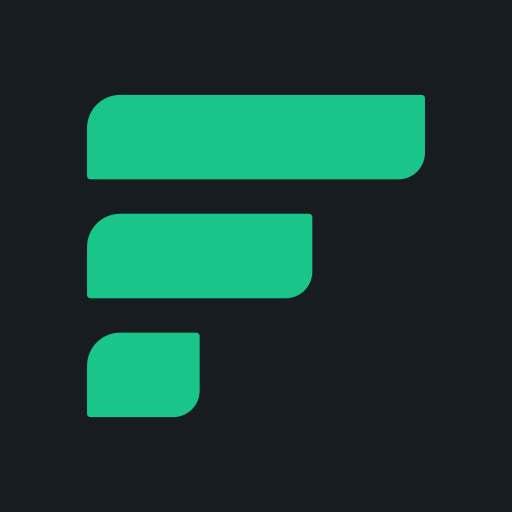
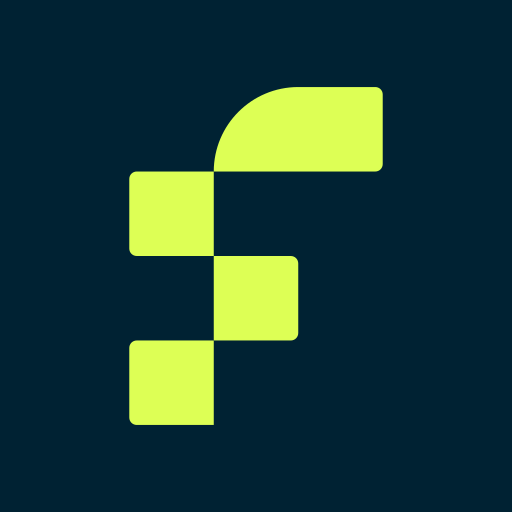
Explore energetic blue and yellow brand palette

Changed region(s): [[0.1562, 0.1562, 0.8438, 0.8438]]

diff --git a/src/app/ui-preview/preview.module.css b/src/app/ui-preview/preview.module.css
@@ -1666,6 +1666,59 @@
 .setupTasks > button > svg { flex:none; color:var(--preview-muted); }
 .setupTasks > button[data-complete="true"] strong { color:var(--preview-muted); text-decoration:line-through; }
 .setupTasks > button[data-complete="true"] > span { background:var(--preview-accent); color:var(--preview-on-accent); }
+
+/* High-energy palette experiment: deep ocean structure, warm cream canvas, restrained electric yellow. */
+.apple {
+  --preview-accent:#11425d;
+  --preview-highlight:#11425d;
+  --preview-brand:#ddff55;
+  --preview-energy:#ddff55;
+  --preview-soft:#c0d6ea;
+  --preview-on-soft:#002233;
+  --preview-ground:#f6f2e8;
+  --preview-text:#002233;
+  --preview-muted:#426276;
+  --preview-line:#d8d4cc;
+  --preview-field:#ebe8e0;
+  --preview-surface:#fffdf8;
+  --preview-on-accent:#f6f2e8;
+}
+.apple.dark {
+  --preview-accent:#c0d6ea;
+  --preview-highlight:#c0d6ea;
+  --preview-brand:#ddff55;
+  --preview-energy:#ddff55;
+  --preview-soft:#11425d;
+  --preview-on-soft:#f6f2e8;
+  --preview-ground:#002233;
+  --preview-text:#f6f2e8;
+  --preview-muted:#c5c0c9;
+  --preview-line:#31576c;
+  --preview-field:#173b50;
+  --preview-surface:#0c354b;
+  --preview-on-accent:#002233;
+  background:#002233;
+}
+.apple.middayTheme { background:#eee9df; }
+.apple .calendarHero .calendarSummary strong { font-weight:700; letter-spacing:-.005em; }
+.apple :is(.addFab,.homeUtilities button > span,.notification [data-slot="badge"]) { border-color:var(--preview-energy); background:var(--preview-energy); color:#002233; }
+.apple .unreadDot { background:var(--preview-energy); }
+.apple .addFab:hover { background:#d3f34f; }
+.apple .groupSymbol { background:#c5c0c9; color:#002233; }
+.apple .teachingCard { border-left-color:#11425d; }
+.apple.dark .teachingCard { border-left-color:#c0d6ea; }
+.apple .studioMarker:focus { outline-color:var(--preview-energy); }
+.apple .monthGrid > button.monthHasClass i { background:var(--preview-energy); }
+.apple .calendarHero .homeSummaryActions > button,
+.apple:not(.dark) .swipeCalendar .calendarHero .homeSummaryActions > button { background:#11425d!important; color:#f6f2e8!important; }
+.apple .calendarHero .homeSummaryActions > button:hover,
+.apple:not(.dark) .swipeCalendar .calendarHero .homeSummaryActions > button:hover { background:#002233!important; color:#f6f2e8!important; }
+.apple.dark .calendarHero .homeSummaryActions > button { background:#c0d6ea!important; color:#002233!important; }
+.apple.dark .calendarHero .homeSummaryActions > button:hover { background:#ddff55!important; color:#002233!important; }
+.apple .homeCardFooter { background:#11425d!important; color:#f6f2e8!important; }
+.apple .homeCardFooter:hover { background:#002233!important; color:#f6f2e8!important; }
+.apple.dark .homeCardFooter { background:#c0d6ea!important; color:#002233!important; }
+.apple.dark .homeCardFooter:hover { background:#ddff55!important; color:#002233!important; }
 .apple.dark .setupPanel { box-shadow:0 14px 36px rgb(0 0 0 / 22%); }
 @media(min-width:900px) {
   .setupPanel { margin-top:24px; padding:28px; border-radius:28px; }

diff --git a/src/components/ShareLivePreview.tsx b/src/components/ShareLivePreview.tsx
@@ -82,14 +82,15 @@ function BrandMark({ color }: { color: string }) {
     <svg
       className="shbrand-mark"
       aria-hidden="true"
-      viewBox="53.7961 53.0371 103.2039 98.4259"
+      viewBox="0 0 68.25 91"
       width="54"
       height="52"
       fill={color}
     >
-      <path d="M53.7961 63.1551C53.7961 57.5671 58.3261 53.0371 63.9142 53.0371H155.988C156.547 53.0371 157 53.4901 157 54.0489V70.7436C157 75.214 153.376 78.838 148.906 78.838H54.8079C54.2491 78.838 53.7961 78.385 53.7961 77.8262V63.1551Z" />
-      <path d="M53.7961 99.4675C53.7961 93.8795 58.3261 89.3495 63.9142 89.3495H121.587C122.146 89.3495 122.599 89.8025 122.599 90.3613V107.056C122.599 111.526 118.975 115.15 114.504 115.15H54.8079C54.2491 115.15 53.7961 114.697 53.7961 114.139V99.4675Z" />
-      <path d="M53.7961 135.78C53.7961 130.192 58.3261 125.662 63.9142 125.662H87.1856C87.7444 125.662 88.1974 126.115 88.1974 126.674V143.369C88.1974 147.839 84.5734 151.463 80.103 151.463H54.8079C54.2491 151.463 53.7961 151.01 53.7961 150.451V135.78Z" />
+      <path d="M0 70.25C0 69.1454 0.895431 68.25 2 68.25H22.75V91H2C0.89543 91 0 90.1046 0 89V70.25Z" />
+      <path d="M22.75 45.5H43.5C44.6046 45.5 45.5 46.3954 45.5 47.5V66.25C45.5 67.3546 44.6046 68.25 43.5 68.25H22.75V45.5Z" />
+      <path d="M0 24.75C0 23.6454 0.895431 22.75 2 22.75H22.75V45.5H2C0.89543 45.5 0 44.6046 0 43.5V24.75Z" />
+      <path d="M22.75 22.75C22.75 10.1855 32.9355 0 45.5 0H66.25C67.3546 0 68.25 0.895431 68.25 2V20.75C68.25 21.8546 67.3546 22.75 66.25 22.75H22.75Z" />
     </svg>
   );
 }
@@ -1150,7 +1151,7 @@ function ShareLivePreviewComponent({
                 <span style={{ fontSize: onPhoto ? 30 : 40, fontWeight: 600 }}>{url}</span>
               </span>
               <span style={{ display: "flex", alignItems: "center", gap: 16 }}>
-                <BrandMark color={onPhoto ? "#19C58B" : theme.lockupAccent ?? theme.accent} />
+                <BrandMark color={onPhoto ? "#DDFF55" : theme.lockupAccent ?? theme.accent} />
                 <span
                   style={{
                     color: onPhoto ? "#fff" : editorialInk ? theme.accent : theme.fg,

diff --git a/src/lib/brand.ts b/src/lib/brand.ts
@@ -1,7 +1,6 @@
-// The FittList mark: three descending rounded bars. It reads as both an F and
-// a short list, without needing a box or a separate vertical stem.
-export function brandIcon(color = "#020D08"): string {
-  return `<svg xmlns="http://www.w3.org/2000/svg" viewBox="53.7961 53.0371 103.2039 98.4259" fill="${color}" aria-hidden="true"><path d="M53.7961 63.1551C53.7961 57.5671 58.3261 53.0371 63.9142 53.0371H155.988C156.547 53.0371 157 53.4901 157 54.0489V70.7436C157 75.214 153.376 78.838 148.906 78.838H54.8079C54.2491 78.838 53.7961 78.385 53.7961 77.8262V63.1551Z"/><path d="M53.7961 99.4675C53.7961 93.8795 58.3261 89.3495 63.9142 89.3495H121.587C122.146 89.3495 122.599 89.8025 122.599 90.3613V107.056C122.599 111.526 118.975 115.15 114.504 115.15H54.8079C54.2491 115.15 53.7961 114.697 53.7961 114.139V99.4675Z"/><path d="M53.7961 135.78C53.7961 130.192 58.3261 125.662 63.9142 125.662H87.1856C87.7444 125.662 88.1974 126.115 88.1974 126.674V143.369C88.1974 147.839 84.5734 151.463 80.103 151.463H54.8079C54.2491 151.463 53.7961 151.01 53.7961 150.451V135.78Z"/></svg>`;
+// The FittList mark: a rhythmic, stepped F built from four modular blocks.
+export function brandIcon(color = "#002233"): string {
+  return `<svg xmlns="http://www.w3.org/2000/svg" viewBox="0 0 68.25 91" fill="${color}" aria-hidden="true"><path d="M0 70.25C0 69.1454 0.895431 68.25 2 68.25H22.75V91H2C0.89543 91 0 90.1046 0 89V70.25Z"/><path d="M22.75 45.5H43.5C44.6046 45.5 45.5 46.3954 45.5 47.5V66.25C45.5 67.3546 44.6046 68.25 43.5 68.25H22.75V45.5Z"/><path d="M0 24.75C0 23.6454 0.895431 22.75 2 22.75H22.75V45.5H2C0.89543 45.5 0 44.6046 0 43.5V24.75Z"/><path d="M22.75 22.75C22.75 10.1855 32.9355 0 45.5 0H66.25C67.3546 0 68.25 0.895431 68.25 2V20.75C68.25 21.8546 67.3546 22.75 66.25 22.75H22.75Z"/></svg>`;
 }
 
 export const BRAND_ICON = brandIcon();
